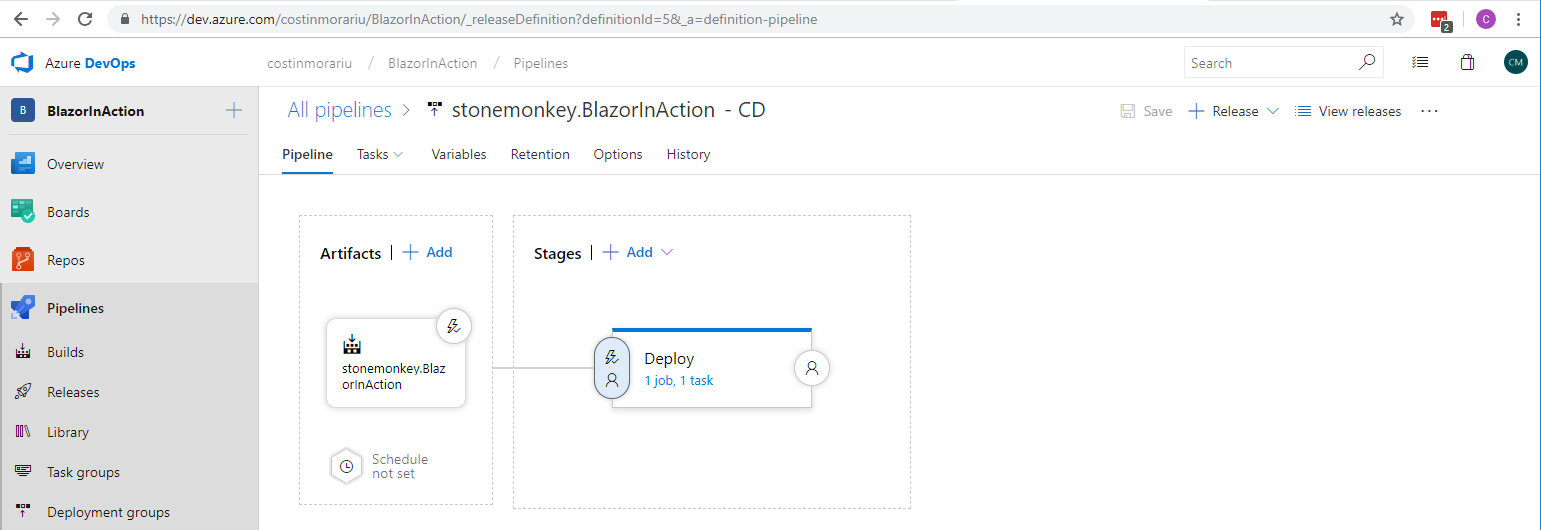
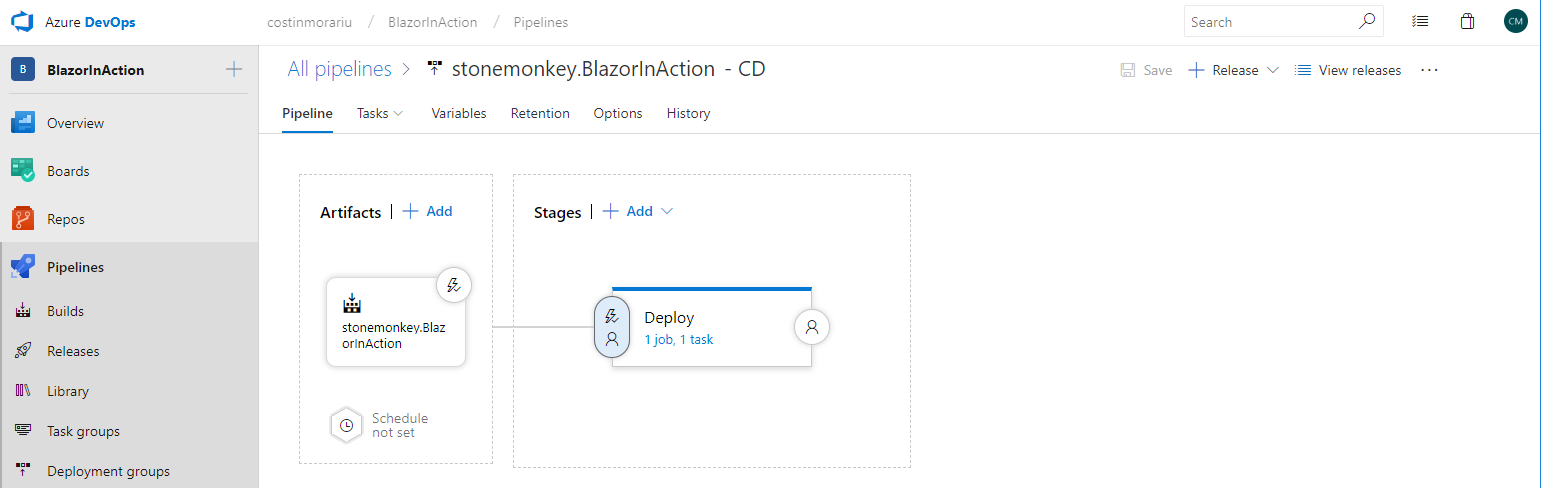
Removes address bar from the documentation pictures

diff --git a/README.md b/README.md
@@ -2,9 +2,15 @@
 
 [![Build Status](https://dev.azure.com/costinmorariu/BlazorInAction/_apis/build/status/stonemonkey.BlazorInAction)](https://dev.azure.com/costinmorariu/BlazorInAction/_build/latest?definitionId=5)
 
-This is a sample application I used to poke into [Blazor](https://blazor.net/) and catch up with [Azure Pipelines](https://azure.microsoft.com/en-us/services/devops/pipelines/). As expected, basic CRUD with Blazor felt straight forward. On the other hand, I spend some time digging into [Azure DevOps](https://azure.microsoft.com/en-us/services/devops) in order to setup a decent cloud CI/CD pipeline for this project. [Scott Hanselman](https://www.hanselman.com/) has a nice blog post on [setting up a build/deploy/test pipeline for an ASP.NET Core applcation in one hour](https://www.hanselman.com/blog/AzureDevOpsContinuousBuildDeployTestWithASPNETCore22PreviewInOneHour.aspx). My goal here was to setup a similar pipeline but using [Docker](https://www.docker.com/) and add the stage Scott didn't figgure out how to solve for running my Selenium tests.
+This is a sample application I used to poke into [Blazor](https://blazor.net/) and to catch up with [Azure Pipelines](https://azure.microsoft.com/en-us/services/devops/pipelines/). 
 
-To run the code locally (on Windows or Mac), clone the [GitHub repository](https://github.com/stonemonkey/BlazorInAction), build and debug in [Visual Studio 2017](https://visualstudio.microsoft.com/downloads/) (15.8.0 or higher). By default it's set to start in IISExpress.
+As expected, basic CRUD with Blazor felt straight forward. 
+
+On the other hand, I spend some time digging into [Azure DevOps](https://azure.microsoft.com/en-us/services/devops) in order to setup a decent cloud CI/CD pipeline for this project. 
+
+[Scott Hanselman](https://www.hanselman.com/) has a nice blog post on [setting up a build/deploy/test pipeline for an ASP.NET Core applcation in one hour](https://www.hanselman.com/blog/AzureDevOpsContinuousBuildDeployTestWithASPNETCore22PreviewInOneHour.aspx). My goal here was to setup a similar pipeline but using [Docker](https://www.docker.com/) and add the stage Scott didn't figgure out how to solve for running my Selenium tests.
+
+To run the code locally (Windows or Mac), clone the [GitHub repository](https://github.com/stonemonkey/BlazorInAction), build and debug in [Visual Studio 2017](https://visualstudio.microsoft.com/downloads/) (15.8.0 or higher). By default it's set to start in IISExpress.
 
 ## Goal #1:
 Build a simple application with [Blazor](https://blazor.net/). At the time of writing, [Blazor](https://github.com/aspnet/Blazor) is an experimental .NET web framework (not ready yet to be used in production applications). Still, it looks very promissing, reason why I want to give it a try. The cool part with this framework is that it runs in the browser with [WebAssembly](https://webassembly.org/) and uses C#/[Razor](https://docs.microsoft.com/en-us/aspnet/core/mvc/views/razor?view=aspnetcore-2.1) to render HTML. Visual Studio Project templates for Blazor includes [Bootstrap 3](https://getbootstrap.com/docs/3.3/getting-started/).
@@ -37,6 +43,7 @@ From [Elephant Carpaccio exercise](http://alistair.cockburn.us/Elephant+Carpacci
 ### Outcome
 
 The application is accessible [here](https://ebikesshopserver.azurewebsites.net/).
+
 ![alt text](https://github.com/stonemonkey/BlazorInAction/blob/master/Images/ebikeshop_retailcalculatorpage.png "E-BikesShop Retail calculator")
 
 [BlazorInAction GitHub repository](https://github.com/stonemonkey/BlazorInAction) contains the sources for a simple SOA implementation of the [Elephant Carpaccio exercise](http://alistair.cockburn.us/Elephant+Carpaccio+exercise) with [Blazor](https://blazor.net/) and [ASP.NET Web API](https://www.asp.net/web-api).
